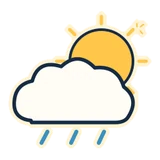
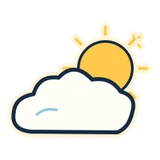
Planche 23 reprise DA : 20 illustrations remplacées, mêmes identifiants (v86)
Claude-Session: https://claude.ai/code/session_01FmbBbPYR3Uqmj4jvUphPos

Changed region(s): [[0.0312, 0.0625, 0.9688, 0.9375], [0.2188, 0.6562, 0.375, 0.7188]]

diff --git a/sw.js b/sw.js
@@ -1,5 +1,5 @@
 // Maison : service worker. L'app s'ouvre sans réseau (lecture) et reçoit des notifications.
-const VERSION = 'maison-v85';
+const VERSION = 'maison-v86';
 const SHELL = ['./', './index.html', './styles.css', './app.js', './themes.js', './fx.js', './people.js', './dechets.js', './recettes.js', './config.js', './manifest.webmanifest', './vendor/supabase-js-2.49.4.js',
   './azami/v41/azami_v41_etirement_anime.svg', './azami/v41/azami_v41_jeu_anime.svg', './azami/v41/azami_v41_toilette_anime.svg', './azami/v41/azami_v41_marche_anime.svg', './azami/v41/azami_v41_miaulement_anime.svg', './azami/v41/azami_v41_repos_anime.svg', './azami/azami_menage_anime.svg', './azami/azami_courses_anime.svg', './azami/azami_argent_anime.svg', './azami/azami_care_anime.svg', './azami/azami_reussite_anime.svg', './azami/reactions/tache_cochee_anime.svg', './azami/reactions/corvee_terminee_anime.svg', './azami/reactions/courses_completees_anime.svg', './azami/reactions/comptes_equilibres_anime.svg', './azami/reactions/mot_envoye_anime.svg', './azami/reactions/objectif_commun_anime.svg', './azami/reactions/surprise_coucou_anime.svg', './azami/reactions/fete_reussites_anime.svg',
   './icons/icon-192.png', './icons/icon-512.png',

diff --git a/app.js b/app.js
@@ -985,7 +985,7 @@ function viewMaison() {
       <button data-action="meows" data-on="1" aria-pressed="${MEOWS}">Oui</button>
       <button data-action="meows" data-on="0" aria-pressed="${!MEOWS}">Non</button></div></div>
     ${DEMO ? '' : `<div class="theme-row"><span>Rappels en retard</span>${notifOn() ? '<span class="hint">Notifications activées</span>' : '<button class="btn ghost small" data-action="notif">Activer les notifications</button>'}</div>`}
-    <div class="foot">${DEMO ? '<button class="link" data-action="demo-reset">Remettre la démo à zéro</button>' : '<button class="link" data-action="logout">Se déconnecter</button>'}<span class="version">v85</span></div>`;
+    <div class="foot">${DEMO ? '<button class="link" data-action="demo-reset">Remettre la démo à zéro</button>' : '<button class="link" data-action="logout">Se déconnecter</button>'}<span class="version">v86</span></div>`;
 }
 
 // Tâches datées et prochaine échéance de chaque corvée, à placer dans l'agenda de l'app.
